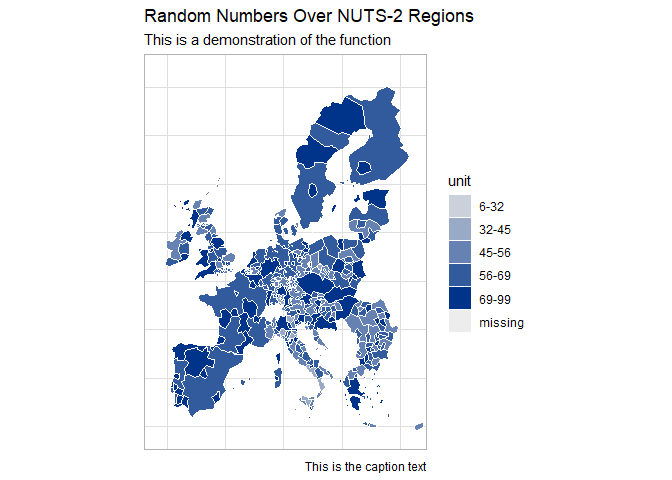
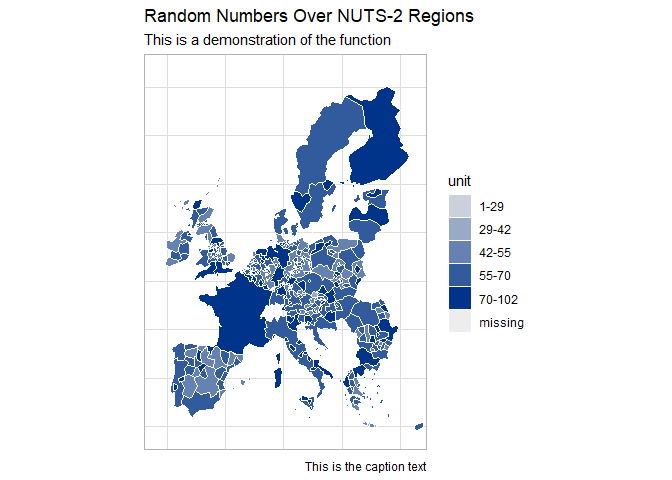
choropleth is fixed new palettes

diff --git a/README.md b/README.md
@@ -7,8 +7,7 @@
 
 [![Project Status: WIP – Initial development is in progress, but there
 has not yet been a stable, usable release suitable for the
-public.](https://www.repostatus.org/badges/latest/wip.svg)](https://www.repostatus.org/#wip)[![license](https://img.shields.io/badge/license-AGPL--3-lightgrey.svg)](https://choosealicense.com/licenses/agpl-3.0/)[![Last-changedate](https://img.shields.io/badge/last%20change-2020--06--21-yellowgreen.svg)](/commits/master)
-
+public.](https://www.repostatus.org/badges/latest/wip.svg)](https://www.repostatus.org/#wip)[![license](https://img.shields.io/badge/license-AGPL--3-lightgrey.svg)](https://choosealicense.com/licenses/agpl-3.0/)[![Last-changedate](https://img.shields.io/badge/last%20change-2020--08--05-yellowgreen.svg)](/commits/master)
 [![Travis build
 status](https://travis-ci.com/antaldaniel/satellitereport.svg?branch=master)](https://travis-ci.com/antaldaniel/satellitereport)
 <!-- badges: end -->
